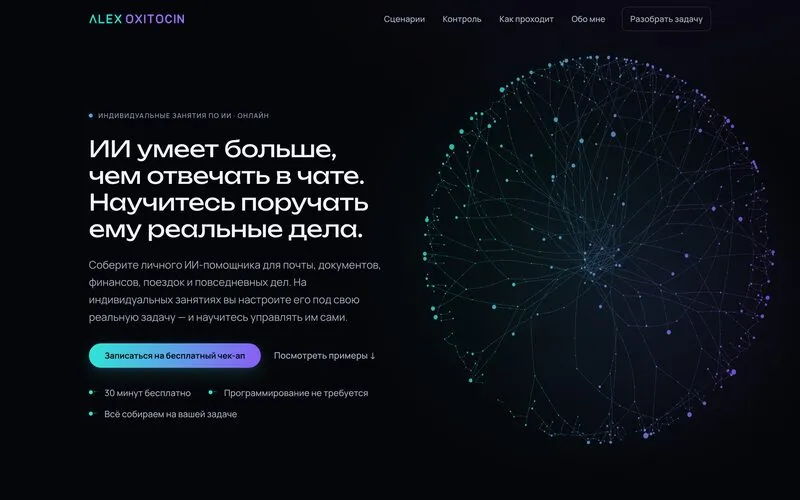
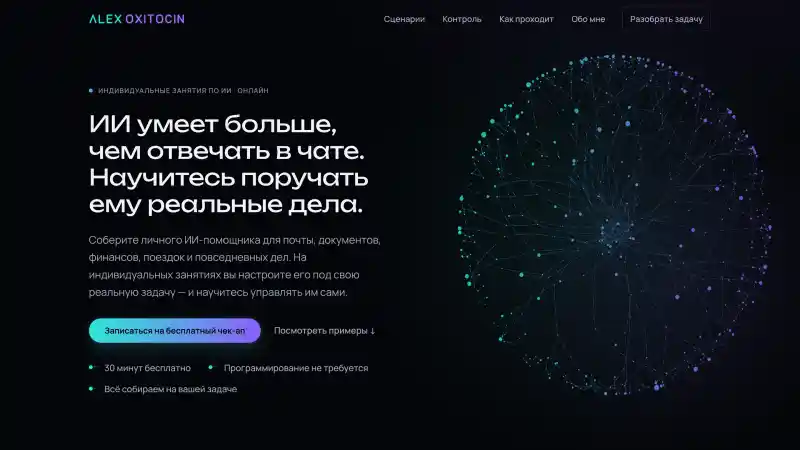
Add Dream Board and Fathom to selected projects
Two lab studies join the work carousel in both languages: Dream Board,
a browser tool for composing a vision board, and Fathom, the goldfish
study that follows the visitor's time of day.

Every card screenshot is re-shot at 16:9 (1200×675 and 800×450, JPEG
and WebP): the old 8:5 frame made canvas work look vertically
stretched. The deck-mode track cap moves from ×1.6 to ×1.7778 so the
cards still fit one screen.

The Spanish locale goes back on localesAwaitingReview until the owner
signs off the two new cards.

diff --git a/website/src/content.js b/website/src/content.js
@@ -32,7 +32,9 @@ export const links = {
     alexNeon: "https://alex-neon.ks-design.workers.dev",
     /* Custom domain configured ahead of the rollout; serves once deployed. */
     ember: "https://ember.ks-design.art/",
-    misha: "https://misha.ks-design.workers.dev/"
+    misha: "https://misha.ks-design.workers.dev/",
+    dreamboard: "https://dreamboard.ks-design.art/",
+    fathom: "https://fathom.ks-design.art/"
   }
 };
 
@@ -48,10 +50,10 @@ export const languages = {
 /** Locales whose copy is a translation the owner has not signed off on yet.
  *  The build names them on every run, the way unfinished sections are named,
  *  so a draft translation cannot quietly become the published wording. The
- *  owner approved the Spanish copy on 2026-08-17, the ember and misha work
- *  cards on 2026-08-19, and the hero annotations (`hero.notes`) on
- *  2026-08-28. */
-export const localesAwaitingReview = [];
+ *  owner approved the original Spanish copy on 2026-08-17, the ember and misha
+ *  work cards on 2026-08-19, and the hero annotations (`hero.notes`) on
+ *  2026-08-28. The new Dream Board and Fathom cards await local review. */
+export const localesAwaitingReview = ["es"];
 
 /** One social card per language — sharing a page with a card that carries
  *  another language's headline is a mixed-language preview. Rendered by
@@ -157,6 +159,28 @@ export const content = {
           href: links.work.misha,
           image: "misha",
           alt: "Mikhail Orlov one-page CV portfolio, first screen"
+        },
+        {
+          slug: "dreamboard",
+          name: "Dream Board",
+          kind: "Lab study · browser tool",
+          year: "2026",
+          summary:
+            "A free browser tool for arranging uploaded images and text into a personal vision board, then downloading the finished composition as a PNG.",
+          href: links.work.dreamboard,
+          image: "dreamboard",
+          alt: "Dream Board landing page with a halftone world map"
+        },
+        {
+          slug: "fathom",
+          name: "Fathom",
+          kind: "Lab study · interactive",
+          year: "2026",
+          summary:
+            "An interactive school of shimmering goldfish drifting through painted water that changes with the visitor's local time of day.",
+          href: links.work.fathom,
+          image: "fathom",
+          alt: "Fathom study with shimmering goldfish in pale blue water"
         }
       ]
     },
@@ -336,6 +360,28 @@ export const content = {
           href: links.work.misha,
           image: "misha",
           alt: "Primera pantalla del portfolio CV de una página de Mikhail Orlov"
+        },
+        {
+          slug: "dreamboard",
+          name: "Dream Board",
+          kind: "Estudio de laboratorio · herramienta web",
+          year: "2026",
+          summary:
+            "Una herramienta gratuita en el navegador para armar un vision board con imágenes propias y texto, y descargar el resultado en PNG.",
+          href: links.work.dreamboard,
+          image: "dreamboard",
+          alt: "Landing de Dream Board con un mapamundi tramado"
+        },
+        {
+          slug: "fathom",
+          name: "Fathom",
+          kind: "Estudio de laboratorio · interactivo",
+          year: "2026",
+          summary:
+            "Un cardumen interactivo de peces dorados brillantes que deriva por agua pintada y cambia según la hora local de quien lo visita.",
+          href: links.work.fathom,
+          image: "fathom",
+          alt: "Estudio Fathom con peces dorados brillantes en agua celeste"
         }
       ]
     },

diff --git a/website/src/styles/sections.css b/website/src/styles/sections.css
@@ -186,7 +186,7 @@
   box-shadow: var(--shadow-lift);
 }
 
-/* The screenshots are 1200×750 and are shown at exactly that proportion: a
+/* The screenshots are 1200×675 and are shown at exactly that proportion: a
    portfolio card that crops the work or stretches it is showing something the
    client never designed. Height therefore follows width and is never set. */
 .work-shot img {
@@ -198,13 +198,13 @@
 /* The slide still has to fit one screen, and with the proportion fixed the only
    honest way to fit is to make the cards narrower — never shorter than their
    own ratio. The cap is the height left once the header, the container padding,
-   the heading and the card meta have taken theirs; ×1.6 for the 8:5 ratio, ×2
-   for the two cards, plus the gap between them. The track is capped rather than
-   the container, so the heading keeps the section's own left edge and stays
-   aligned with every other slide. */
+   the heading and the card meta have taken theirs; ×1.7778 for the 16:9 ratio,
+   ×2 for the two cards, plus the gap between them. The track is capped rather
+   than the container, so the heading keeps the section's own left edge and
+   stays aligned with every other slide. */
 @media (min-width: 900px) and (min-height: 660px) {
   .work-track {
-    max-width: calc((100svh - var(--header-h) - 25rem) * 1.6 * 2 + 3rem);
+    max-width: calc((100svh - var(--header-h) - 25rem) * 1.7778 * 2 + 3rem);
   }
 
   /* The carousel shrinks with the capped track, plus its two 4.5rem arrow
@@ -212,7 +212,7 @@
      arrows keep flanking the screenshots instead of stranding themselves
      against the section's edges. */
   .carousel {
-    max-width: calc((100svh - var(--header-h) - 25rem) * 1.6 * 2 + 3rem + 9rem);
+    max-width: calc((100svh - var(--header-h) - 25rem) * 1.7778 * 2 + 3rem + 9rem);
     margin-inline: auto;
   }
 

diff --git a/website/src/render.js b/website/src/render.js
@@ -224,7 +224,7 @@ function work(copy) {
               base: item.image,
               alt: item.alt,
               widths: [800, 1200],
-              height: 750,
+              height: 675,
               sizes: "(max-width: 719px) 86vw, (max-width: 1099px) 44vw, 36vw"
             })}</span>
             <span class="work-meta">

diff --git a/AGENTS.md b/AGENTS.md
@@ -51,9 +51,11 @@ rules, heavy tracked capitals. Everything below follows from that.
   at all; a test counts the hero's label and fails at two.
 - The language switch is two small words separated by a slash, the current one
   underlined — printed, not app-like. Each is a 44px target and a plain link.
-- **Portfolio screenshots are shown at their own 8:5 proportion**, never cropped
+- **Portfolio screenshots are shown at their own 16:9 proportion**, never cropped
   and never stretched: a card that reframes the work is showing something the
-  client never designed. The shot sets no height and no `object-fit`. When the
+  client never designed. The lower frame replaces the earlier 8:5 cards (client
+  decision, 2026-09-10), which made canvas work look vertically stretched. The
+  shot sets no height and no `object-fit`. When the
   slide is too short for the cards at that ratio, `.work-track` narrows them —
   the container is left alone so the heading keeps the section's left edge.
 - The process numerals grow slightly on hover. Any motion added here stays at
@@ -121,10 +123,10 @@ Below that it is an ordinary flowing document.
   `overflow: hidden`. A slide is exactly one screen whenever its content fits
   and grows instead of clipping when it does not — silently eating the last
   line of copy on a short laptop window is worse than a slide that scrolls.
-- The work slide preserves each screenshot's 8:5 ratio by letting height follow
+- The work slide preserves each screenshot's 16:9 ratio by letting height follow
   width. In deck mode, `.work-track` therefore caps its width from the viewport
   height left after the header, container padding, heading and card meta:
-  `(100svh - var(--header-h) - 25rem) × 1.6 × 2`, plus the card gap. Cap the
+  `(100svh - var(--header-h) - 25rem) × 1.7778 × 2`, plus the card gap. Cap the
   track rather than `.work > .container`, so the cards narrow on short screens
   while the heading keeps the same left edge as every other slide. If those
   vertical allowances change, re-measure the `25rem` term rather than assume.
@@ -348,12 +350,12 @@ and the apple-touch PNG must never be edited by hand:
 node website/scripts/make-icons.mjs
 ```
 
-Portfolio card screenshots, from the live stages. Every card is 1200×750 and
-800×500 in both JPEG and WebP, so a new shot must be taken at the section's
-8:5 proportion rather than cropped into it:
+Portfolio card screenshots, from the live stages. Every card is 1200×675 and
+800×450 in both JPEG and WebP, so a new shot must be taken at the section's
+16:9 proportion rather than cropped into it:
 
 ```bash
-"/Applications/Google Chrome.app/Contents/MacOS/Google Chrome" --headless --disable-gpu --hide-scrollbars --force-device-scale-factor=2 --window-size=1440,900 --virtual-time-budget=9000 --screenshot=shot.png https://chaijana.ks-design.workers.dev
+"/Applications/Google Chrome.app/Contents/MacOS/Google Chrome" --headless --disable-gpu --hide-scrollbars --force-device-scale-factor=2 --window-size=1440,810 --virtual-time-budget=9000 --screenshot=shot.png https://chaijana.ks-design.workers.dev
 ```
 
 Two cards need more than that flag. Ember's shot must catch the animation
@@ -361,7 +363,7 @@ mid-burn, so it is taken through the DevTools protocol: open the study, click
 Play, wait about 1.3 seconds, then capture — a plain `--screenshot` grabs the
 resting figure. Mikhail Orlov's page holds its entrance reveals until the
 content scrolls into view, so a wide window screenshots as an empty sheet;
-shoot it at 1000×625 (or drive it over the protocol with a pause after load)
+shoot it at 1000×563 (or drive it over the protocol with a pause after load)
 and scale to the card sizes.
 
 Neither is part of `npm run build`; both outputs are committed.

diff --git a/README.md b/README.md
@@ -18,7 +18,7 @@ lead paragraph under it repeated what the heading already said.
    On hover it winks, and the owner's claims appear hand-written around it
    with curled arrows pointing at her, linking her channel, community,
    Instagram and Pinterest
-2. Selected projects — screenshots at their own 8:5 proportion
+2. Selected projects — screenshots at their own 16:9 proportion
 3. Process — `01`–`04`
 4. Services — three package cards
 5. Kind Words
@@ -57,7 +57,7 @@ Caveat (OFL, beside the other font licenses).
 | Mentored AI-engineers community | [invite link](https://t.me/+1k8AU1O9-o04MTRi) | client, 2026-08-27 |
 | Hero annotation claims | %YEARS%+ years, not generic AI web design, AI expert, aesthetics and authenticity | client, 2026-08-28 |
 | In web development since | 2017 | client |
-| Argentinian Spanish translation | `/es/` copy | client-approved on 2026-08-17; the hero annotations (`hero.notes`) approved on 2026-08-28 |
+| Argentinian Spanish translation | `/es/` copy | original copy client-approved on 2026-08-17; the hero annotations (`hero.notes`) approved on 2026-08-28; the new Dream Board and Fathom cards await local review |
 
 Every string lives in [`website/src/content.js`](./website/src/content.js).
 Nothing on the page is written anywhere else.
@@ -78,13 +78,15 @@ part of that project, which is a record of work done rather than an offer.
 
 ### Portfolio entries
 
-All four projects live in this repository and are linked to their public
+All six projects live in this repository and are linked to their public
 stages, in the order the carousel shows them:
 [Chaijaná Noir](https://chaijana.ks-design.workers.dev),
 [Alex Neon](https://alex-neon.ks-design.workers.dev),
-[Ember](https://ember.ks-design.art/) and
-[Mikhail Orlov](https://misha.ks-design.workers.dev/). The card images are
-screenshots of those stages at the section's 8:5 proportion, regenerated with
+[Ember](https://ember.ks-design.art/),
+[Mikhail Orlov](https://misha.ks-design.workers.dev/),
+[Dream Board](https://dreamboard.ks-design.art/) and
+[Fathom](https://fathom.ks-design.art/). The card images are
+screenshots of those stages at the section's 16:9 proportion, regenerated with
 the commands in [`AGENTS.md`](./AGENTS.md).
 
 Ember's card is not a resting screenshot: it is a frame taken about 1.3
